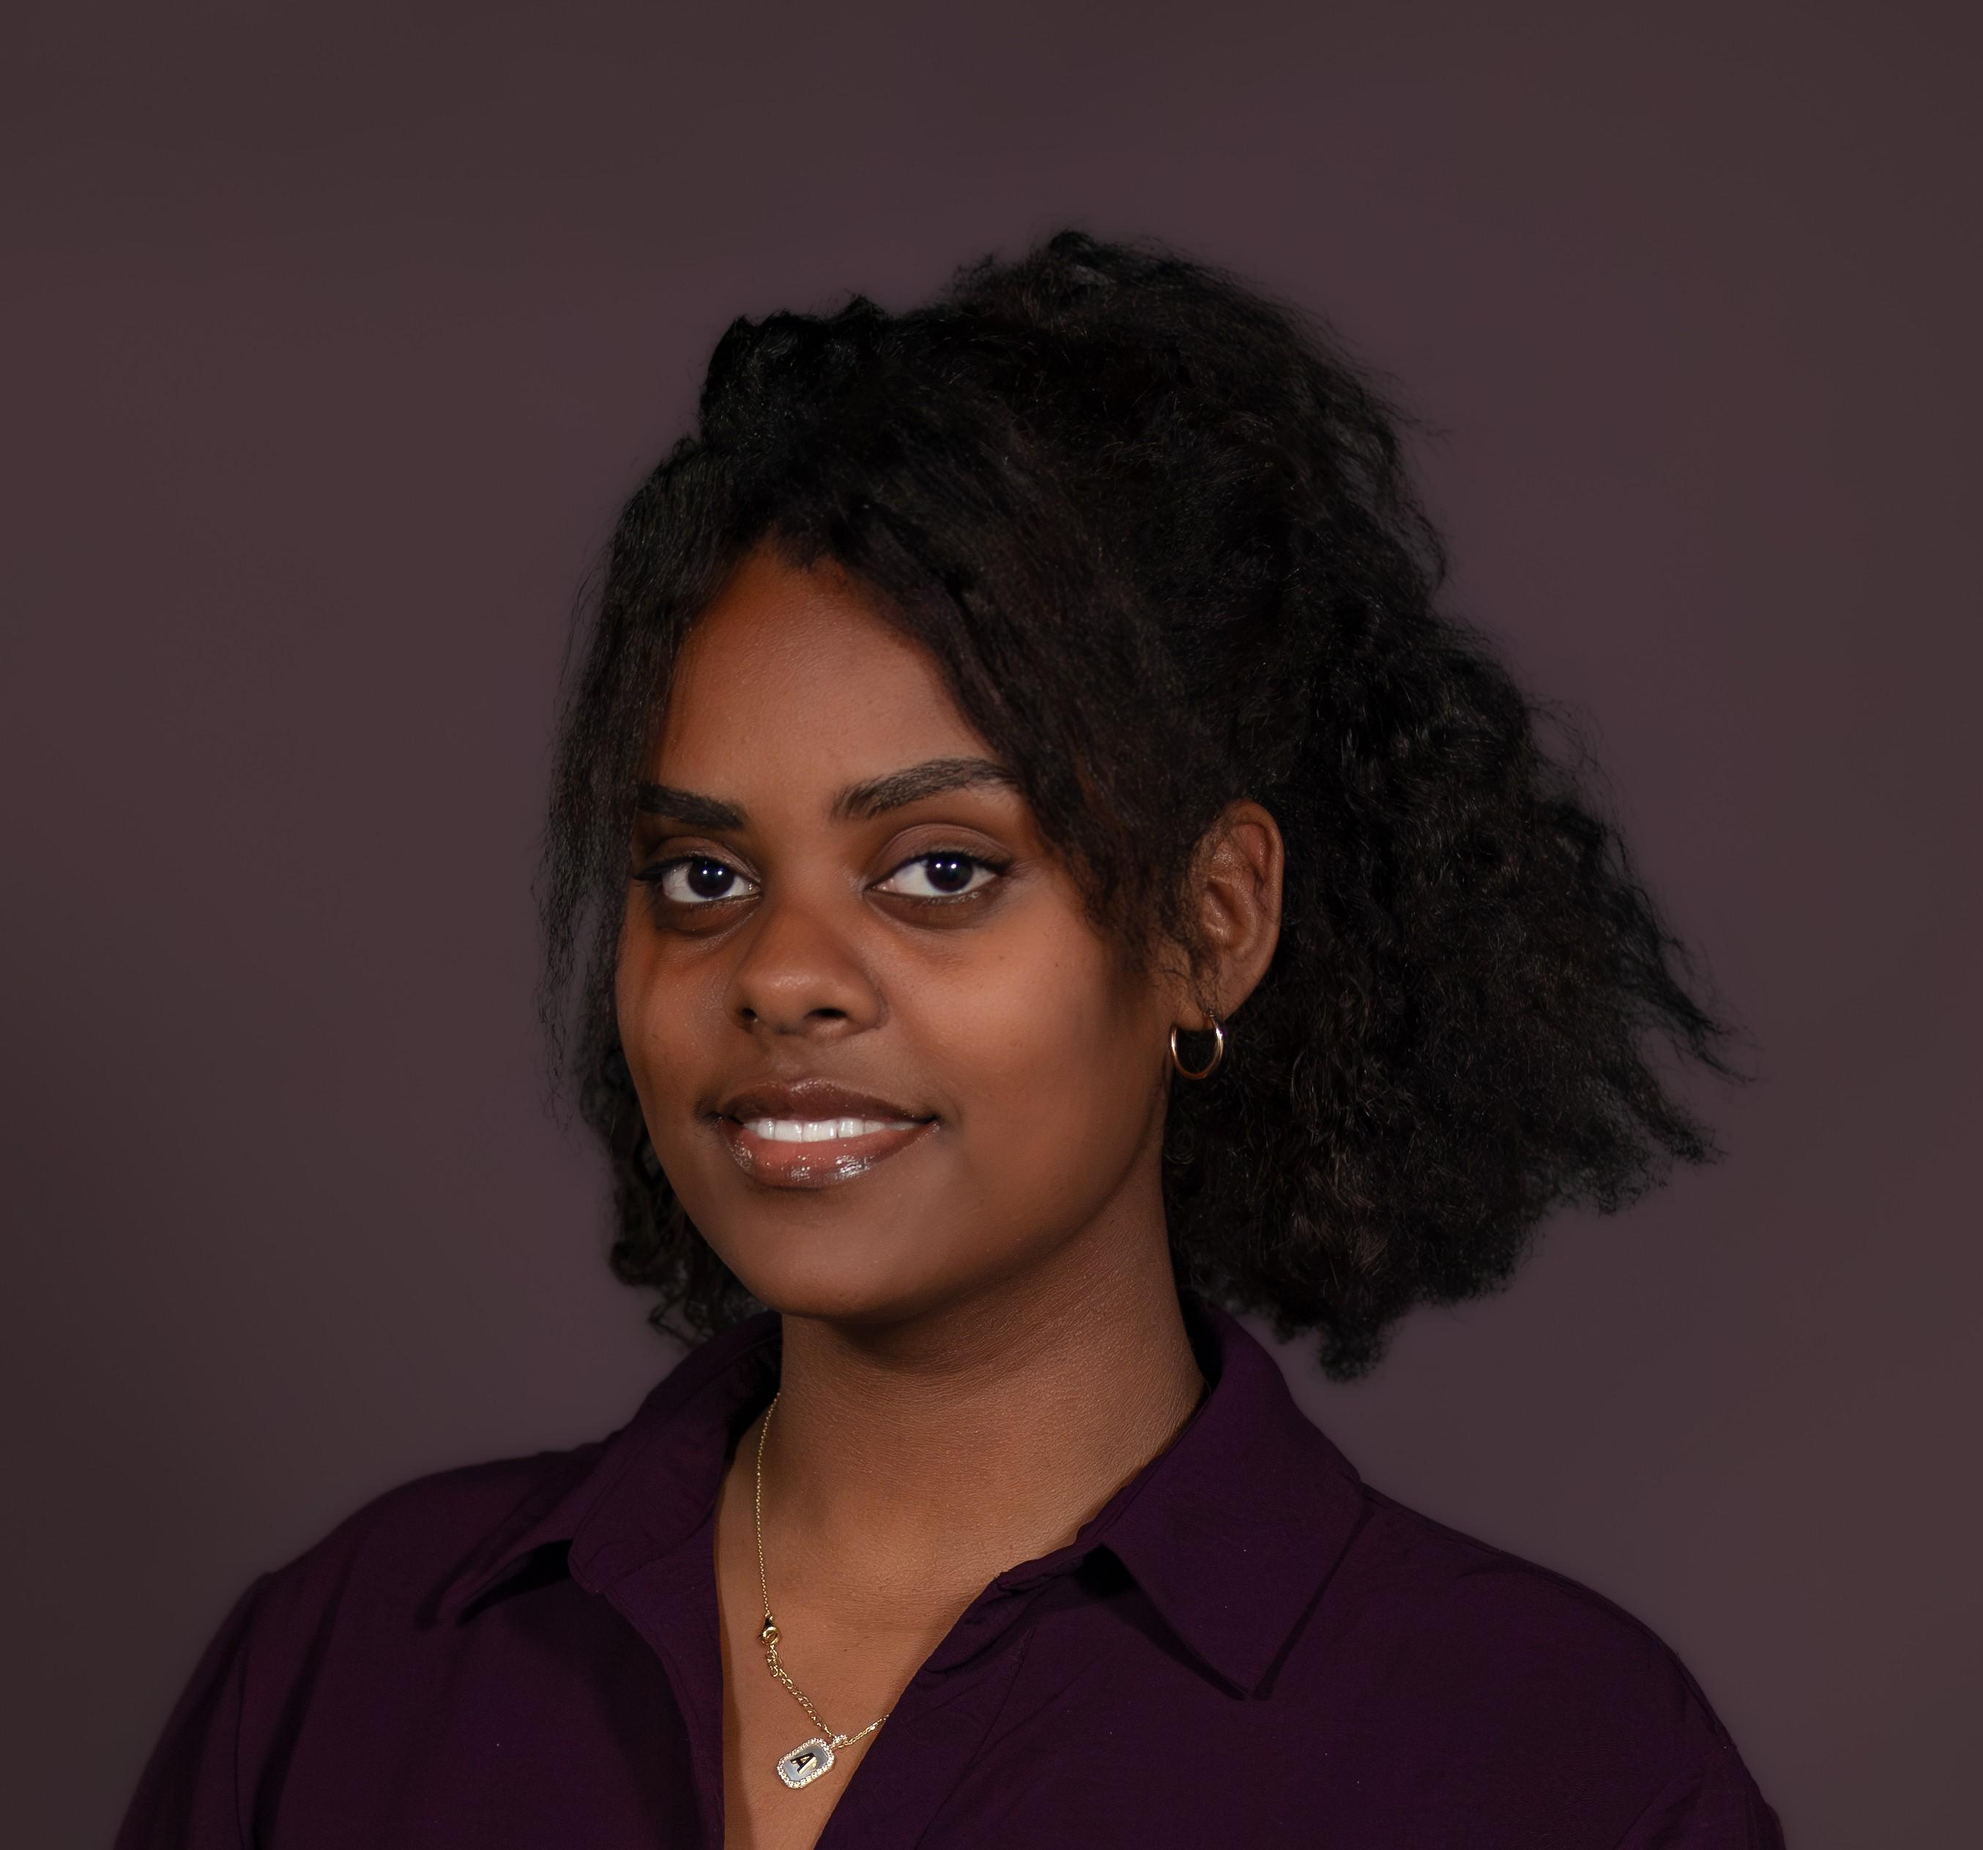
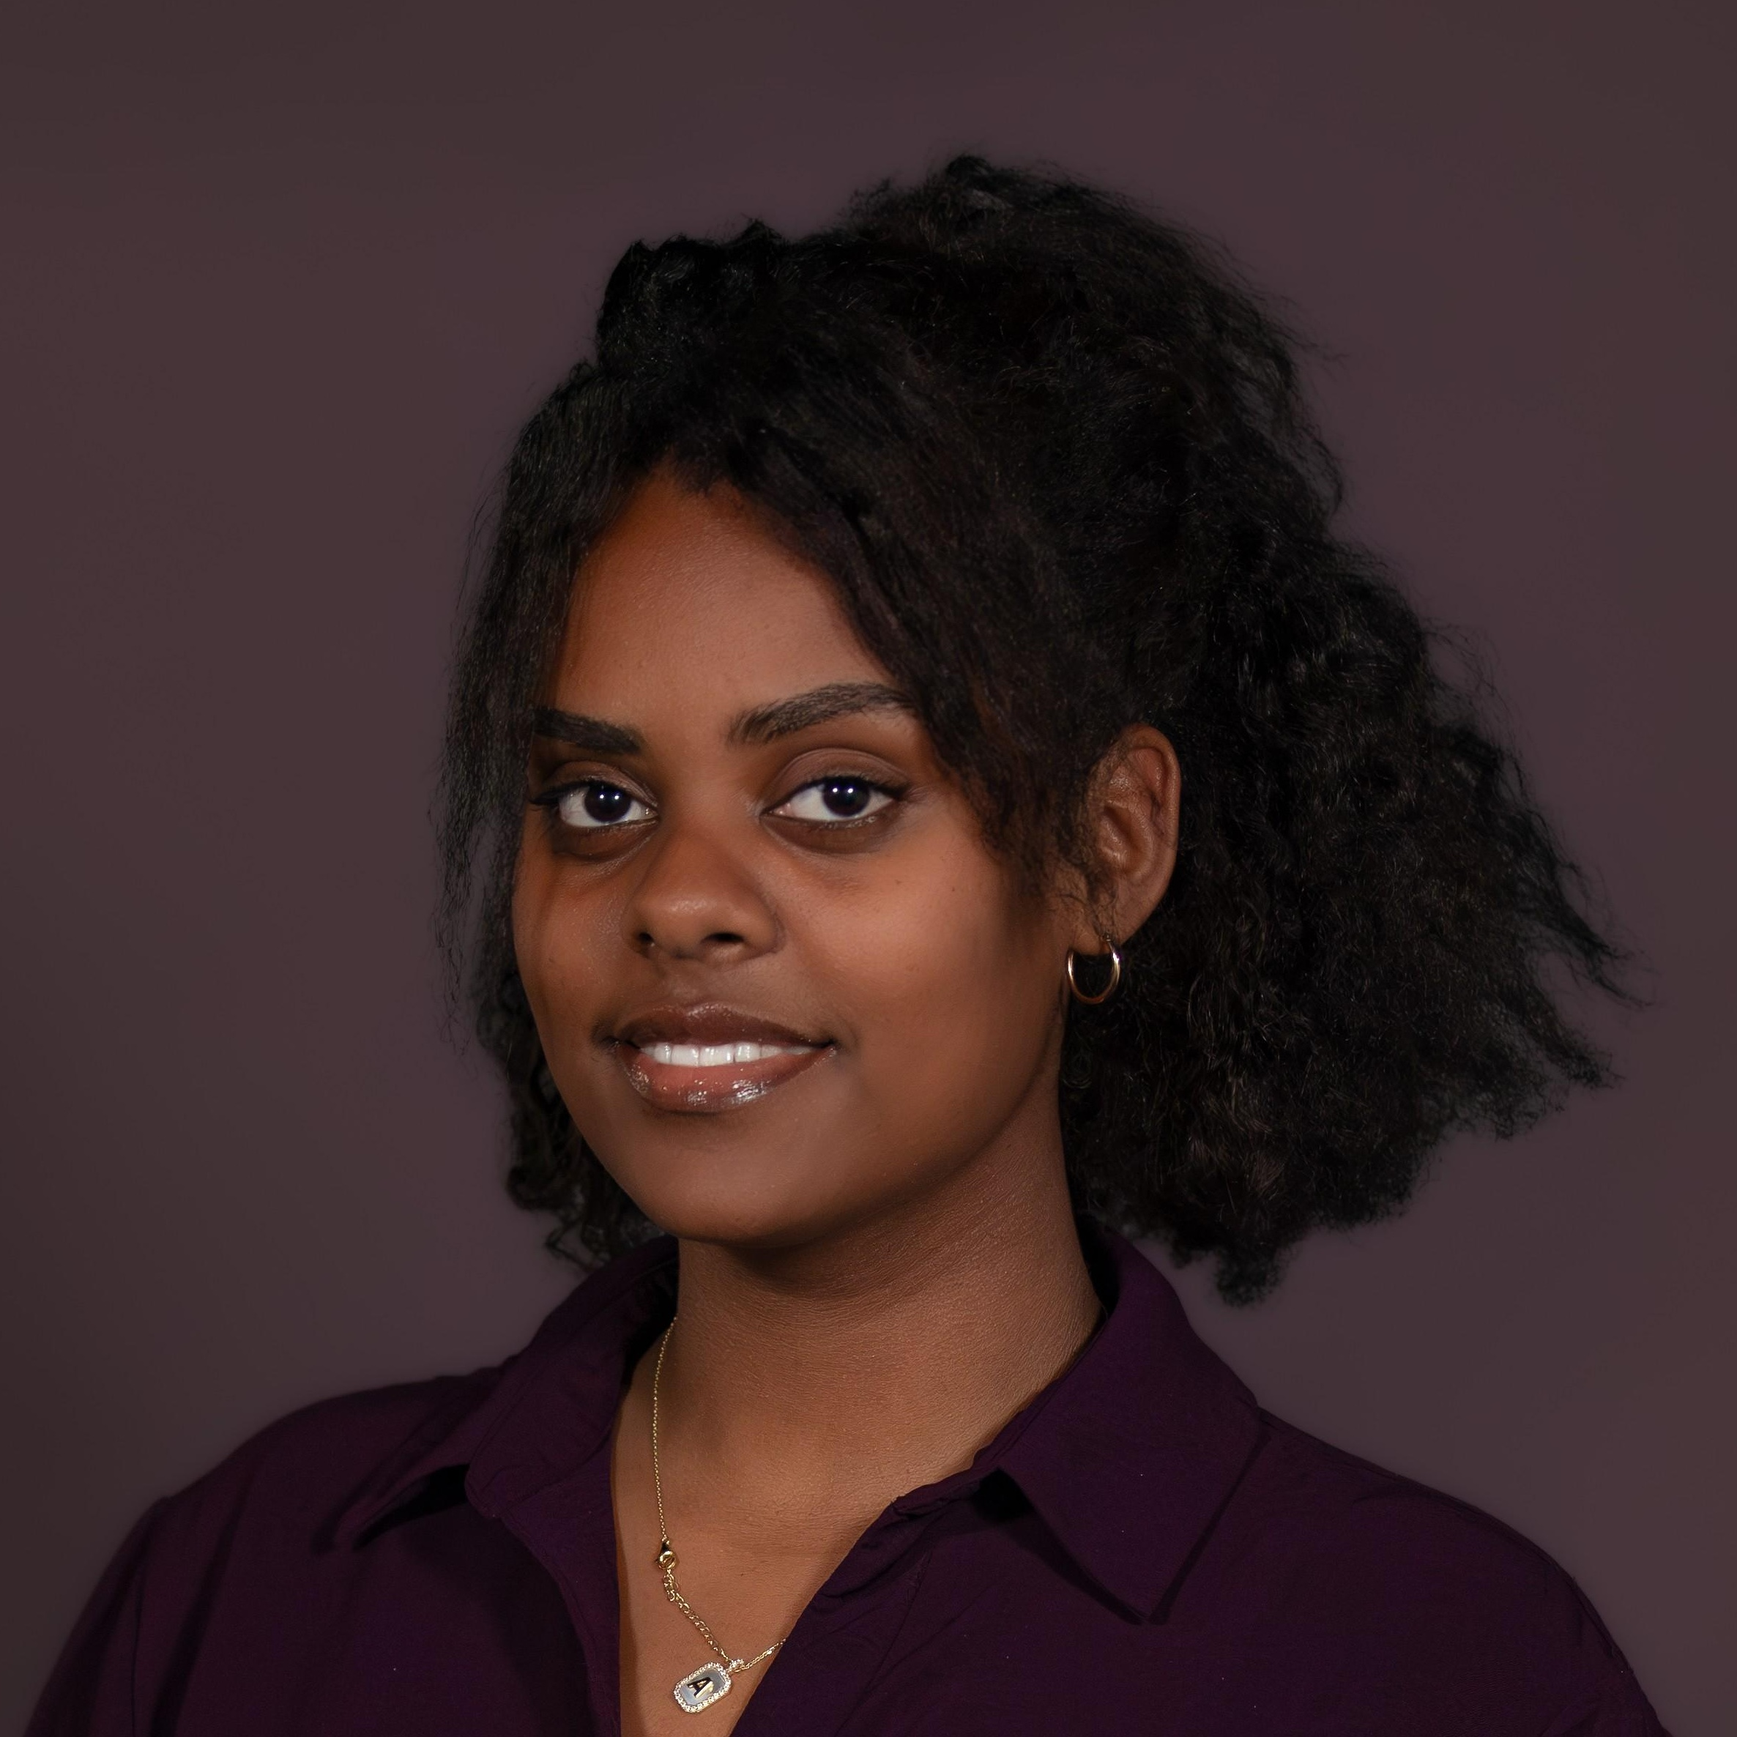
Fixed my blog link and Annabel's photo

diff --git a/index.md b/index.md
@@ -104,9 +104,9 @@ sections:
         image: assets/img/members/Dylan.png
         url: 'https://wp.dylwcar.com/'
       - title: BRYSON DeLOZIER
-        text: Ramen Noodle Enthusiast
+        text: Loves Ramen Noodles
         image: assets/img/members/Bryson.png
-        url: 'https://brysondddelozier.github.io/blog/'
+        url: 'https://brysonddelozier.github.io/blog/'
       - title: ANNABEL MEHARI
         text: Walking Side Quest
         image: assets/img/members/Annabel.jpeg
